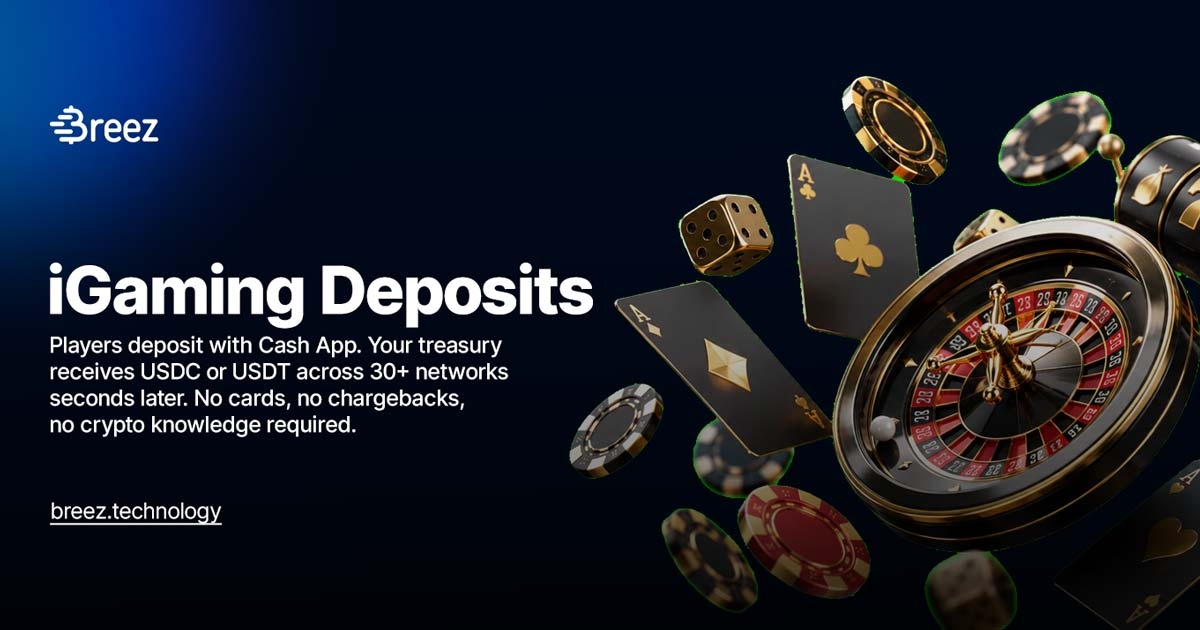
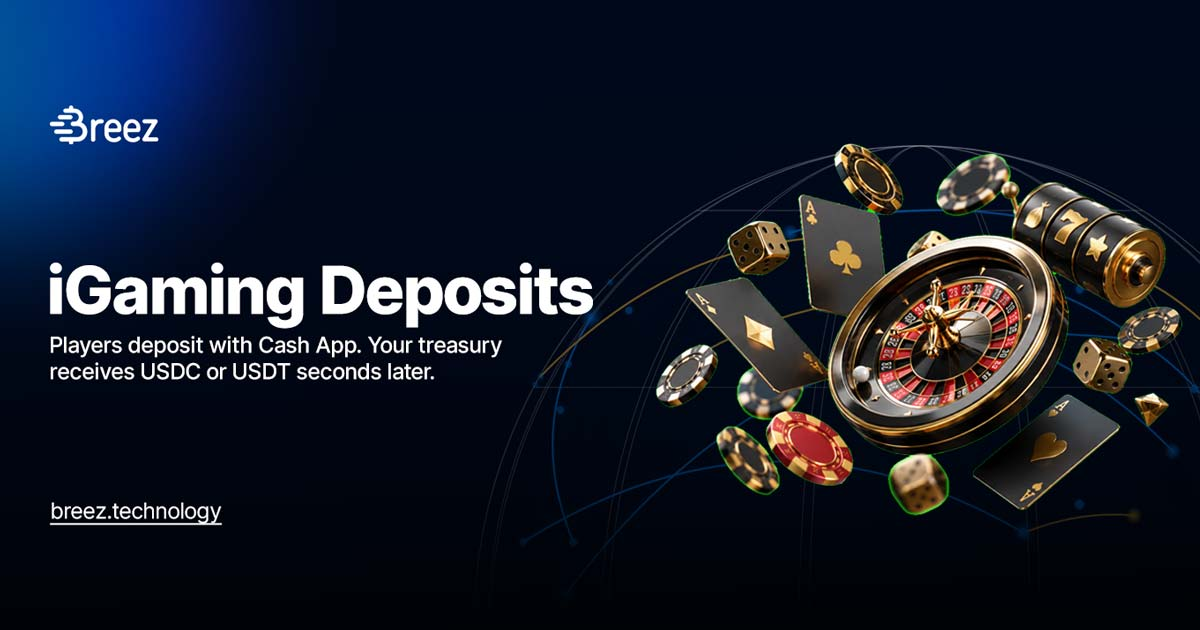
Cap the hero height on tall windows; new iGaming meta image
Everything in the hero is a fixed height, so stretching it to the
viewport dropped the surplus out of the bottom -- 566px of empty blue on
a 1365px-tall window. Past ~874px of viewport the hero now stops growing
and the next section peeks instead. A 1440x820 laptop is unchanged.

diff --git a/src/styles/pages/_igaming.scss b/src/styles/pages/_igaming.scss
@@ -153,13 +153,19 @@ $body-ink-dim: #FFFFFF;
   .sdk-hero-sub--support { margin: 0; }
 }
 
-// The hero owns the first screen: the demo below it should not be visible
-// until the visitor scrolls.
+// The hero holds the first screen on an ordinary laptop, without stretching
+// to fill an unusually tall window.
 .igaming-page .sdk-hero-section {
   @media (min-width: 768px) {
-    // Holds the fold so the demo is not visible, without centring the copy
-    // inside it, which is what pushed the headline down the screen.
-    min-height: calc(100vh - 154px);
+    // start, not centre -- centring pushed the headline down the screen.
+    //
+    // The cap is what stops a tall window. Everything in the hero is a fixed
+    // height, so stretching to the viewport dropped the surplus out of the
+    // bottom: 566px of empty blue on a 1365px-tall one. Past ~874px of
+    // viewport the hero stops growing and the next section peeks instead,
+    // which is the better invitation to scroll. Below that -- every ordinary
+    // laptop -- this resolves to calc(100vh - 154px) and nothing changes.
+    min-height: min(calc(100vh - 154px), 720px);
     align-content: start;
   }
 }
